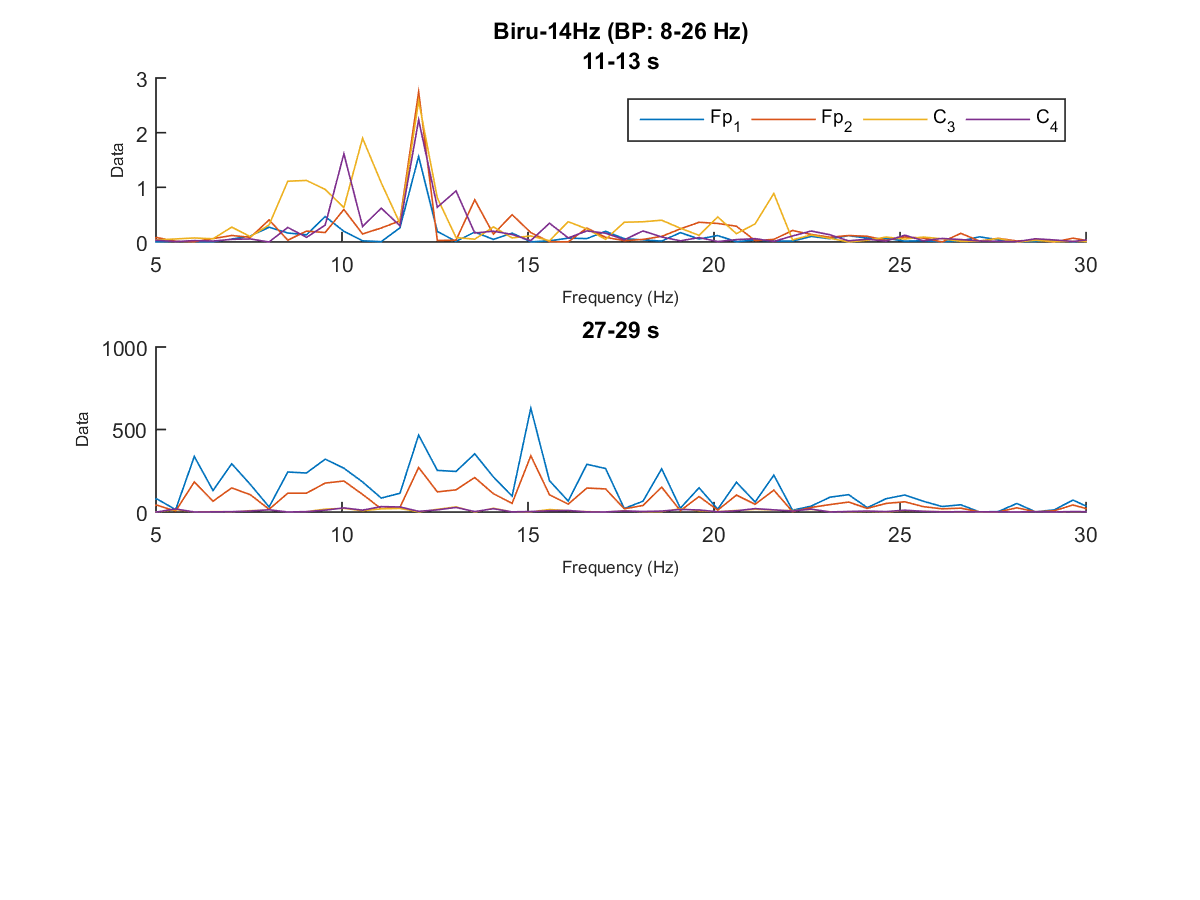
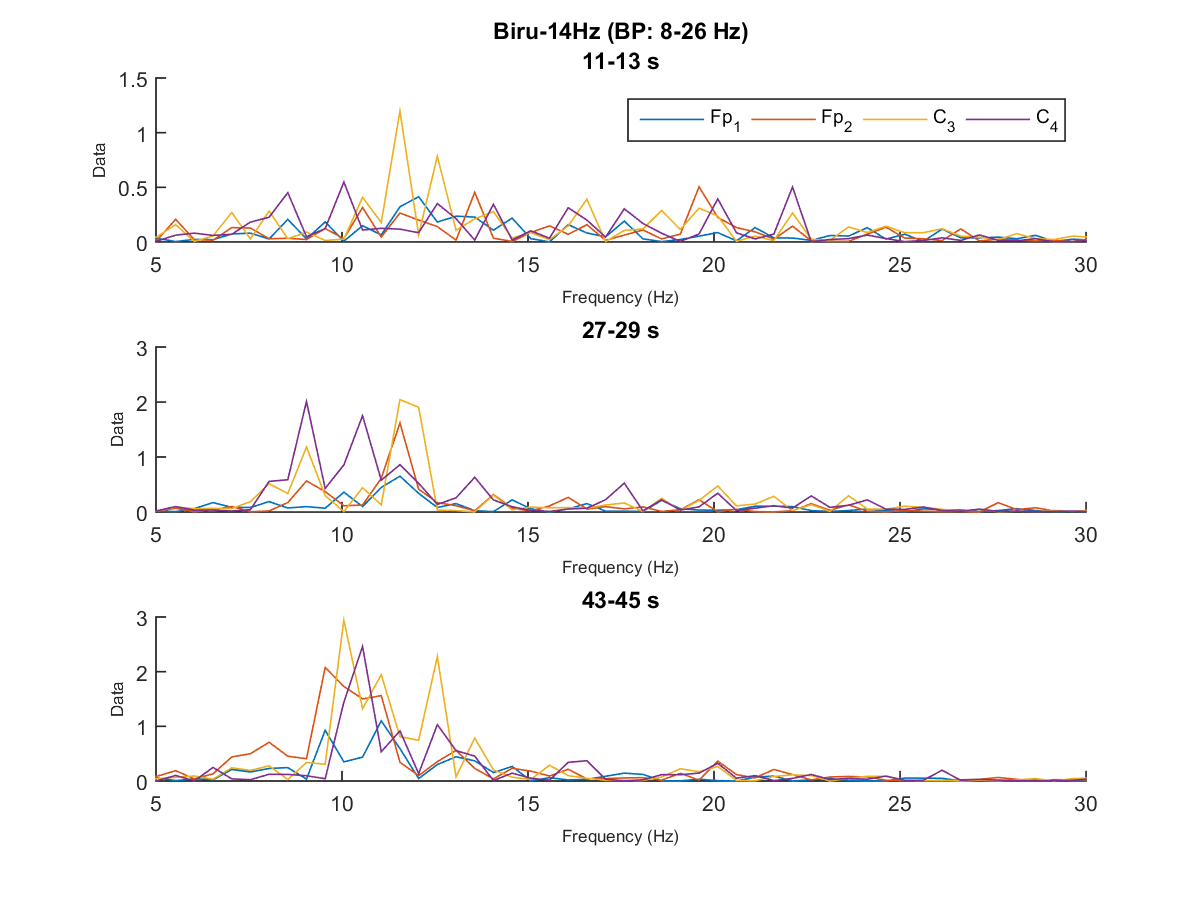
proses scoring ratio Merah Biru

diff --git a/_DataSkripsi/codeMain/main2.m b/_DataSkripsi/codeMain/main2.m
@@ -1,0 +1,70 @@
+%  --- Ratio RMS seluruh subjek
+
+close all; clear; clc;
+
+subjek = 'subjek5a_1.txt';
+folder1 = 'D:\Jaler\OpenBCI_GUI\_DataSkripsi\Dataset\rawData\';
+folder2 = 'D:\Jaler\OpenBCI_GUI\_DataSkripsi\Dataset\rawData\temp13\'; 
+files = dir([folder1 '*.txt']);
+fs = 200;
+
+% -- LoadRaw - Notch50Hz - BP1-50Hz (basic preprocessing)
+data = load([folder1 subjek]);
+data = filterNotch50(data, fs);
+[data, BP] = filterBP(data, fs, 1, 50);
+% --------------------------------- (basic preprocessing)
+
+% -- input : data ----- Target 11 Hz (Merah)
+[data11, BP11] = filterBP(data, fs, 10.5, 11.5);
+[data22, BP22] = filterBP(data, fs, 21.5, 22.5);
+[data33, BP33] = filterBP(data, fs, 32.5, 33.5);
+% -- Output : data11, data22, data33 --
+% -- input : data ----- Target 13 Hz (Biru)
+[data13, BP13] = filterBP(data, fs, 12.5, 13.5);
+[data26, BP26] = filterBP(data, fs, 25.5, 26.5);
+[data39, BP39] = filterBP(data, fs, 38.5, 39.5);
+% -- Output : data13, data26, data39 --
+
+% -- Potong Data ---------------------------------
+[M11,B11,durasi] = potongData(data11, fs, 2);
+[M22,B22,durasi] = potongData(data22, fs, 2);
+[M33,B33,durasi] = potongData(data33, fs, 2);
+
+[M13,B13,durasi] = potongData(data13, fs, 2);
+[M26,B26,durasi] = potongData(data26, fs, 2);
+[M39,B39,durasi] = potongData(data39, fs, 2);
+% -- MB[11 22 33] MB[13 26 39] -------------------
+
+% -- RMS -----------------------------------------
+M11_RMS = RMS(M11);
+M13_RMS = RMS(M13);
+M22_RMS = RMS(M22);
+M26_RMS = RMS(M26);
+M33_RMS = RMS(M33);
+M39_RMS = RMS(M39);
+
+B11_RMS = RMS(B11);
+B13_RMS = RMS(B13);
+B22_RMS = RMS(B22);
+B26_RMS = RMS(B26);
+B33_RMS = RMS(B33);
+B39_RMS = RMS(B39);
+% -- MB_RMS --------------------------------------
+
+% -- Memasukkan RMS ke cell, memudahkan loop ------
+% M 11 22 33  13 26 39
+% B 13 26 39  11 22 33
+dataRMS{1,1} = M11_RMS;
+dataRMS{1,2} = M22_RMS;
+dataRMS{1,3} = M33_RMS;
+dataRMS{1,4} = M13_RMS;
+dataRMS{1,5} = M26_RMS;
+dataRMS{1,6} = M39_RMS;
+
+dataRMS{2,1} = B13_RMS;
+dataRMS{2,2} = B26_RMS;
+dataRMS{2,3} = B39_RMS;
+dataRMS{2,4} = B11_RMS;
+dataRMS{2,5} = B22_RMS;
+dataRMS{2,6} = B33_RMS;
+% -- dataRMS{}-------------------------------------

diff --git a/_DataSkripsi/codeMain/plotTD1.m b/_DataSkripsi/codeMain/plotTD1.m
@@ -1,0 +1,43 @@
+function plotTD1(data, fokusWarna, fs, durasi, BPLabel)
+    sizeData = size(data);
+    durasiFs = durasi * fs;
+    t = [0:durasiFs-1]/fs;
+
+    % -- Cek Fokus Warna Merah atau Biru
+    if fokusWarna(1) == 'M'
+        detik = [3 19 35];
+        else
+            detik = [11 27 43];
+    end
+    % ----------------------------------
+
+    % -- cari maxData dan minData untuk ylim, agar sama tiap plotnya.
+    maxData = []; minData = [];
+    for i = 1:sizeData(1)
+        for j = 1:sizeData(2)
+            maxData = max([maxData max(data{i,j})]);
+            minData = min([minData min(data{i,j})]);
+        end
+    end
+
+    figure();
+        for i = 1:sizeData(1) % Time Frame
+            subplot(3,1,i)
+                hold on;
+                for j = 1:sizeData(2) % Channel
+                    plot(t, data{i,j});
+                end
+                hold off;
+            if i == 1
+                title({sprintf('Time Domain %s (BP: %d-%d Hz)',fokusWarna, BPLabel); sprintf('%d-%d s', detik(i),detik(i)+durasi)});
+                        legend('Fp_1','Fp_2','C_3', 'C_4' , 'Location','northeast' , 'Orientation','horizontal');
+
+                else    
+                    title( sprintf('%d-%d s', detik(i),detik(i)+durasi) );
+                end
+            % xlim([xlim1 xlim2]);
+            % ylim([minData maxData]);
+            xlabel('\fontsize{8}Time (s)');
+            ylabel('\fontsize{8}Data');
+        end
+end

diff --git a/_DataSkripsi/codeMain/main.m b/_DataSkripsi/codeMain/main.m
@@ -2,7 +2,7 @@
 
 close all; clear; clc;
 
-subjek = 'subjek2c_22.txt';
+subjek = 'subjek5a_2.txt';
 folder1 = 'D:\Jaler\OpenBCI_GUI\_DataSkripsi\Dataset\rawData\';
 folder2 = 'D:\Jaler\OpenBCI_GUI\_DataSkripsi\Dataset\rawData\temp12\';
 files = dir([folder1 '*.txt']);
@@ -17,8 +17,12 @@ M_PSD = PSDAll(M, fs);
 B_PSD = PSDAll(B, fs);
 [xlim1, xlim2, durasi, BPLabel] = labelPlot(5, 30, durasi, BP);
 subjek(regexp(subjek, '[.txt]'))=[];
-plotPSD1(M_PSD, 'Merah-9Hz', xlim1, xlim2, durasi, BPLabel); print([folder2 sprintf('M_PSD_%s',subjek)],'-dpng');
-plotPSD1(B_PSD, 'Biru-14Hz', xlim1, xlim2, durasi, BPLabel); print([folder2 sprintf('B_PSD_%s',subjek)],'-dpng');
+% plotPSD1(M_PSD, 'Merah-9Hz', xlim1, xlim2, durasi, BPLabel); print([folder2 sprintf('M_PSD_%s',subjek)],'-dpng');
+% plotPSD1(B_PSD, 'Biru-14Hz', xlim1, xlim2, durasi, BPLabel); print([folder2 sprintf('B_PSD_%s',subjek)],'-dpng');
+% plotTD1(M, 'Merah-9Hz', fs, durasi, BPLabel);
+% plotTD1(B, 'Biru-14Hz', fs, durasi, BPLabel);
+M_RMS = RMS(M)
+B_RMS = RMS(B)
 
 % data11 = filterBP(data, fs, 10.5, 11.5);
 % data13 = filterBP(data, fs, 12.5, 13.5);

diff --git a/_DataSkripsi/codeMain/RatioRMS.m b/_DataSkripsi/codeMain/RatioRMS.m
@@ -1,0 +1,15 @@
+% -- Ratio RMS : returns Score of Ratio
+function [scoreM, scoreB] = RatioRMS(dataRMS)
+
+    for i = 1:3
+        for j = 4:6
+            % Merah
+            rM = dataRMS{1,i} ./ dataRMS{1,j};
+            % Biru
+            rB = dataRMS{2,i} ./ dataRMS{2,j};
+
+            clear rM rB;
+        end
+    end
+
+end

diff --git a/_DataSkripsi/codeMain/RMS.m b/_DataSkripsi/codeMain/RMS.m
@@ -1,0 +1,8 @@
+function [dataRMS] = RMS(data)
+    sizeData = size(data);
+    for i = 1:sizeData(1)
+        for j = 1:sizeData(2)
+            dataRMS(i,j) = rms(data{i,j});
+        end
+    end
+end

diff --git a/_DataSkripsi/trello.md b/_DataSkripsi/trello.md
@@ -1,34 +1,28 @@
-Selamat sore mas @zzzatm , saya sudah membuat program untuk mengolah jadi 2 subplot untuk Time Domain dan PSD dengan plot 4 kanal dalam masing-masing plot.
-Ada 6 Plot dengan 12 Subplot yang dihasilkan dari setiap perulangan pada setiap subjek.
+Selamat siang mas @zzzatm , Hari Kamis 29 Maret 2018 saya ambil data untuk subjek 2, dengan perubahan program ambil data : Merah 9 Hz dan Biru 14 Hz. Preprocessing yang dilakukan Load Raw Data →  Notch Filter → Band Pass 1-50 Hz → **Band Pass 8-26 Hz** (8 Hz adalah awalan frekuensi gelombang alpha dan 26 adalah akhiran frekuensi gelombang beta) → Power Spectral Density.
 
-###Plot PSD (Power Spectral Density):
-_SubPlot pertama merupakan BandPass 10.5-11.5 Hz_
-_SubPlot kedua merupakan BandPass 12.5-13.5Hz_
-Adapun plot yang saya lampirkan merupakan plot dari **Subjek5** Sesi Pertama Perulangan Pertama**[1]** dan Sesi Kedua Perulangan Pertama**[2]**
-Pada title ada nilai max yaitu nilai data tertinggi agar terlihat frekuensi tertinggi yang muncul.
+Hasilnya sebagai berikut :
+## Fokus Merah : 
+### Sesi Pertama
+* Perulangan Pertama [M_11](https://trello-attachments.s3.amazonaws.com/5875a761fec77e8b484f5d1b/5aaf96f8f343ee30e840b4bd/1848cae49d746677963e028198a0bf23/M_PSD_subjek2c_11.png) 
+* Perulangan Kedua  [M_12](https://trello-attachments.s3.amazonaws.com/5875a761fec77e8b484f5d1b/5aaf96f8f343ee30e840b4bd/fa0450c4dd78e99c348a0faecc566b5a/M_PSD_subjek2c_12.png)
+* Perulangan Ketiga [M_13](https://trello-attachments.s3.amazonaws.com/5875a761fec77e8b484f5d1b/5aaf96f8f343ee30e840b4bd/0d787aed32a5312de635091c48a501f3/M_PSD_subjek2c_13.png) 
+### Sesi Kedua
+* Perulangan Pertama [M_21](https://trello-attachments.s3.amazonaws.com/5875a761fec77e8b484f5d1b/5aaf96f8f343ee30e840b4bd/13a53988700a716cce6d1592d3cb3c55/M_PSD_subjek2c_21.png)
+* Perulangan Kedua [M_22](https://trello-attachments.s3.amazonaws.com/5875a761fec77e8b484f5d1b/5aaf96f8f343ee30e840b4bd/a1c2d7e3de507ddae562ca2ff20b64fb/M_PSD_subjek2c_22.png)
+* Perulangan Ketiga [M_23](https://trello-attachments.s3.amazonaws.com/5875a761fec77e8b484f5d1b/5aaf96f8f343ee30e840b4bd/7339dc18b56009ed57a895300df7d9b4/M_PSD_subjek2c_23.png) 
 
-1. M1 : Plot Merah 3-8s [[1]](https://trello-attachments.s3.amazonaws.com/5875a761fec77e8b484f5d1b/5aaf96f8f343ee30e840b4bd/2390a8755d45198e6c2689f40cb95bb0/PSD_subjek5a_1_M1.png) [[2]](https://trello-attachments.s3.amazonaws.com/5875a761fec77e8b484f5d1b/5aaf96f8f343ee30e840b4bd/c4bd0bd1eb35e9bdf5ed372cf80eaef1/PSD_subjek5a_6_M1.png)
-2. M2 : Plot Merah 19-24s [[1]](https://trello-attachments.s3.amazonaws.com/5875a761fec77e8b484f5d1b/5aaf96f8f343ee30e840b4bd/2e77e148ea7e6c6bab87eb2fee1be746/PSD_subjek5a_1_M2.png) [[2]](https://trello-attachments.s3.amazonaws.com/5875a761fec77e8b484f5d1b/5aaf96f8f343ee30e840b4bd/99414443834491a8195a4733e110c527/PSD_subjek5a_6_M2.png) 
-3. M3 : Plot Merah 35-40s [[1]](https://trello-attachments.s3.amazonaws.com/5875a761fec77e8b484f5d1b/5aaf96f8f343ee30e840b4bd/547bc7a899ad4efde06e09726fbe2c90/PSD_subjek5a_1_M3.png) [[2]](https://trello-attachments.s3.amazonaws.com/5875a761fec77e8b484f5d1b/5aaf96f8f343ee30e840b4bd/f5ac7f22e92b40c8372f0643a9e75815/PSD_subjek5a_6_M3.png)
-4. B1 : Plot Biru 11-16s [[1]](https://trello-attachments.s3.amazonaws.com/5875a761fec77e8b484f5d1b/5aaf96f8f343ee30e840b4bd/0ce2c11814469398ab4773cdfc1eb136/PSD_subjek5a_1_B1.png) [[2]](https://trello-attachments.s3.amazonaws.com/5875a761fec77e8b484f5d1b/5aaf96f8f343ee30e840b4bd/c952f9755cefb365bb5a909ae61f6062/PSD_subjek5a_6_B1.png)
-5. B2 : Plot Biru 27-32s [[1]](https://trello-attachments.s3.amazonaws.com/5875a761fec77e8b484f5d1b/5aaf96f8f343ee30e840b4bd/4cfb50e1b4492597e26ebe0eb5f4e563/PSD_subjek5a_1_B2.png) [[2]](https://trello-attachments.s3.amazonaws.com/5875a761fec77e8b484f5d1b/5aaf96f8f343ee30e840b4bd/43f0660c1a8280a1ff7f2c0236c16789/PSD_subjek5a_6_B2.png)
-6. B3 : Plot Biru 43-48s [[1]](https://trello-attachments.s3.amazonaws.com/5875a761fec77e8b484f5d1b/5aaf96f8f343ee30e840b4bd/4a2c8dc1e5d25563c68105a2142e8afd/PSD_subjek5a_1_B3.png) [[2]](https://trello-attachments.s3.amazonaws.com/5875a761fec77e8b484f5d1b/5aaf96f8f343ee30e840b4bd/ec1a392ccd1541817e74017e4959bd10/PSD_subjek5a_6_B3.png)
-
-###Plot Time Domain:
-_Setiap potongan data diambil durasi 2 detik dari awal mulai_
-Terdapat **ylim([min max])**, **min** adalah nilai terkecil dari setiap perulangan pada setiap subjek dan **max** adalah nilai terbesar, dimaksudkan agar terlihat lebih jelas untuk membandingkan plot yang satu dengan yang lainnya pada setiap perulangan dan subjek
-Adapun plot yang saya lampirkan merupakan plot dari **Subjek5** Sesi Pertama Perulangan Pertama**[1]** dan Sesi Kedua Perulangan Pertama**[2]**
-
-1. M1 : Plot Merah 3-5s [[1]](https://trello-attachments.s3.amazonaws.com/5875a761fec77e8b484f5d1b/5aaf96f8f343ee30e840b4bd/905bb65e3b8e4a8700b6e8c5c9252a4b/TD_subjek5a_1_M1.png) [[2]](https://trello-attachments.s3.amazonaws.com/5875a761fec77e8b484f5d1b/5aaf96f8f343ee30e840b4bd/73abddde746a045c9cf3f278bf1648e6/TD_subjek5a_6_M1.png) 
-2. M2 : Plot Merah 19-21s [[1]](https://trello-attachments.s3.amazonaws.com/5875a761fec77e8b484f5d1b/5aaf96f8f343ee30e840b4bd/57d56de800ff145068b20afa9e3d051b/TD_subjek5a_1_M2.png) [[2]](https://trello-attachments.s3.amazonaws.com/5875a761fec77e8b484f5d1b/5aaf96f8f343ee30e840b4bd/d70a49bff6bbe554a0aa184bb67a1f5c/TD_subjek5a_6_M2.png) 
-3. M3 : Plot Merah 35-37s [[1]](https://trello-attachments.s3.amazonaws.com/5875a761fec77e8b484f5d1b/5aaf96f8f343ee30e840b4bd/30c2c753d43b9f2dfbb5b251460a6c11/TD_subjek5a_1_M3.png) [[2]](https://trello-attachments.s3.amazonaws.com/5875a761fec77e8b484f5d1b/5aaf96f8f343ee30e840b4bd/56f6f686766ea147019a9ced7049404a/TD_subjek5a_6_M3.png) 
-4. B1 : Plot Biru 11-13s [[1]](https://trello-attachments.s3.amazonaws.com/5875a761fec77e8b484f5d1b/5aaf96f8f343ee30e840b4bd/d2b41ec77bb8e11190763d2d0a7f191a/TD_subjek5a_1_B1.png) [[2]](https://trello-attachments.s3.amazonaws.com/5875a761fec77e8b484f5d1b/5aaf96f8f343ee30e840b4bd/900e31599a6f6cc97975ed1eca84b8c2/TD_subjek5a_6_B1.png) 
-5. B2 : Plot Biru 27-29 [[1]](https://trello-attachments.s3.amazonaws.com/5875a761fec77e8b484f5d1b/5aaf96f8f343ee30e840b4bd/5ab79a5c1962064a4cd1dc58489c587b/TD_subjek5a_1_B2.png) [[2]](https://trello-attachments.s3.amazonaws.com/5875a761fec77e8b484f5d1b/5aaf96f8f343ee30e840b4bd/fa5ed750e52c43f639228f5838116ca1/TD_subjek5a_6_B2.png) 
-6. B3 : Plot Biru 43-45s [[1]](https://trello-attachments.s3.amazonaws.com/5875a761fec77e8b484f5d1b/5aaf96f8f343ee30e840b4bd/e827f217eddf5842390b26d7551339f4/TD_subjek5a_1_B3.png) [[2]](https://trello-attachments.s3.amazonaws.com/5875a761fec77e8b484f5d1b/5aaf96f8f343ee30e840b4bd/3ae8dd6e53854f7c24ae5bbfb606fd4a/TD_subjek5a_6_B3.png) 
+## Fokus Biru :
+### Sesi Pertama
+* Perulangan Pertama [B_11](https://trello-attachments.s3.amazonaws.com/5875a761fec77e8b484f5d1b/5aaf96f8f343ee30e840b4bd/c93458619d3bb51fb388639dfb9c283d/B_PSD_subjek2c_11.png)
+* Perulangan Kedua [B_12](https://trello-attachments.s3.amazonaws.com/5875a761fec77e8b484f5d1b/5aaf96f8f343ee30e840b4bd/e2b350606dc9e75359bd2056209bb5af/B_PSD_subjek2c_12.png) 
+* Perulangan Ketiga [B_13](https://trello-attachments.s3.amazonaws.com/5875a761fec77e8b484f5d1b/5aaf96f8f343ee30e840b4bd/4953985190a3fe6a69ad8a688e35c84b/B_PSD_subjek2c_13.png) 
+### Sesi Kedua
+* Perulangan Pertama [B_21](https://trello-attachments.s3.amazonaws.com/5875a761fec77e8b484f5d1b/5aaf96f8f343ee30e840b4bd/8ce574ef4d20e30186dd48a78312a347/B_PSD_subjek2c_21.png)
+* Perulangan Kedua [B_22](https://trello-attachments.s3.amazonaws.com/5875a761fec77e8b484f5d1b/5aaf96f8f343ee30e840b4bd/ea2f7fe7079ec315e01bb6383f14ec67/B_PSD_subjek2c_22.png) 
+* Perulangan Ketiga [B_23](https://trello-attachments.s3.amazonaws.com/5875a761fec77e8b484f5d1b/5aaf96f8f343ee30e840b4bd/870884bb0cb3b123df7c5fa2b5d2d8f2/B_PSD_subjek2c_23.png) 
 
 
-###Pembahasan
-Secara keseluruhan memang ada frekuensi yang mendominasi pada kelas Merah untuk BP 10.5-11.5 Hz, begitu juga dengan kelas Biru untuk BP 12.5-13.5 Hz.
-Namun pada perulangan maupun subjek lain ada juga frekuensi dimana kelas Merah dominan pada BP 12.5-13.5 Hz begitu juga sebaliknya dengan frekuensi pada kelas Biru.
-> Agar lebih jelasnya lagi, selanjutnya dilakukan scattering untuk RMS sehingga dapat lebih jelas mana kanal yang relevan pada pemisahan kelas merah dan kelas biru.
 
+>Secara keseluruhan, masih seperti yang dulu ada Merah yang dominan frekuensi di 9 Hz, Biru yang dominan frekuensi di 14 Hz namun tidak selalu terjadi dan dapat terjadi di kondisi sebaliknya (Merah dominan di 14 Hz begitu juga Biru).
+
+> Selanjutnya plotting untuk Time Domain, beserta ratio RMS.
